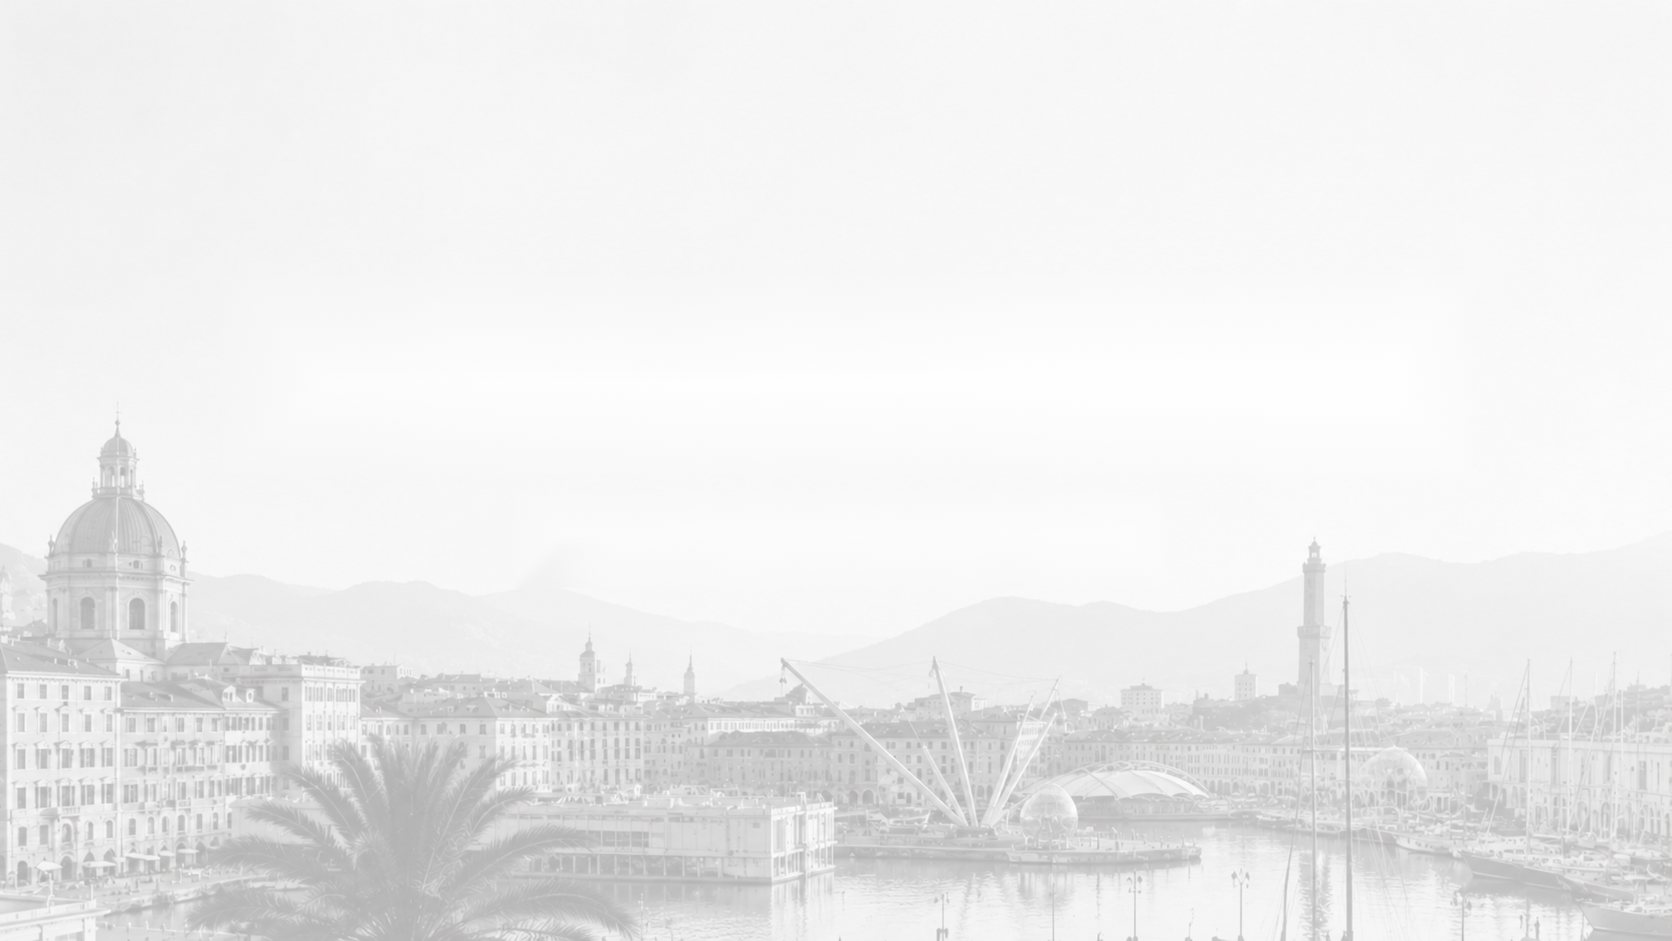
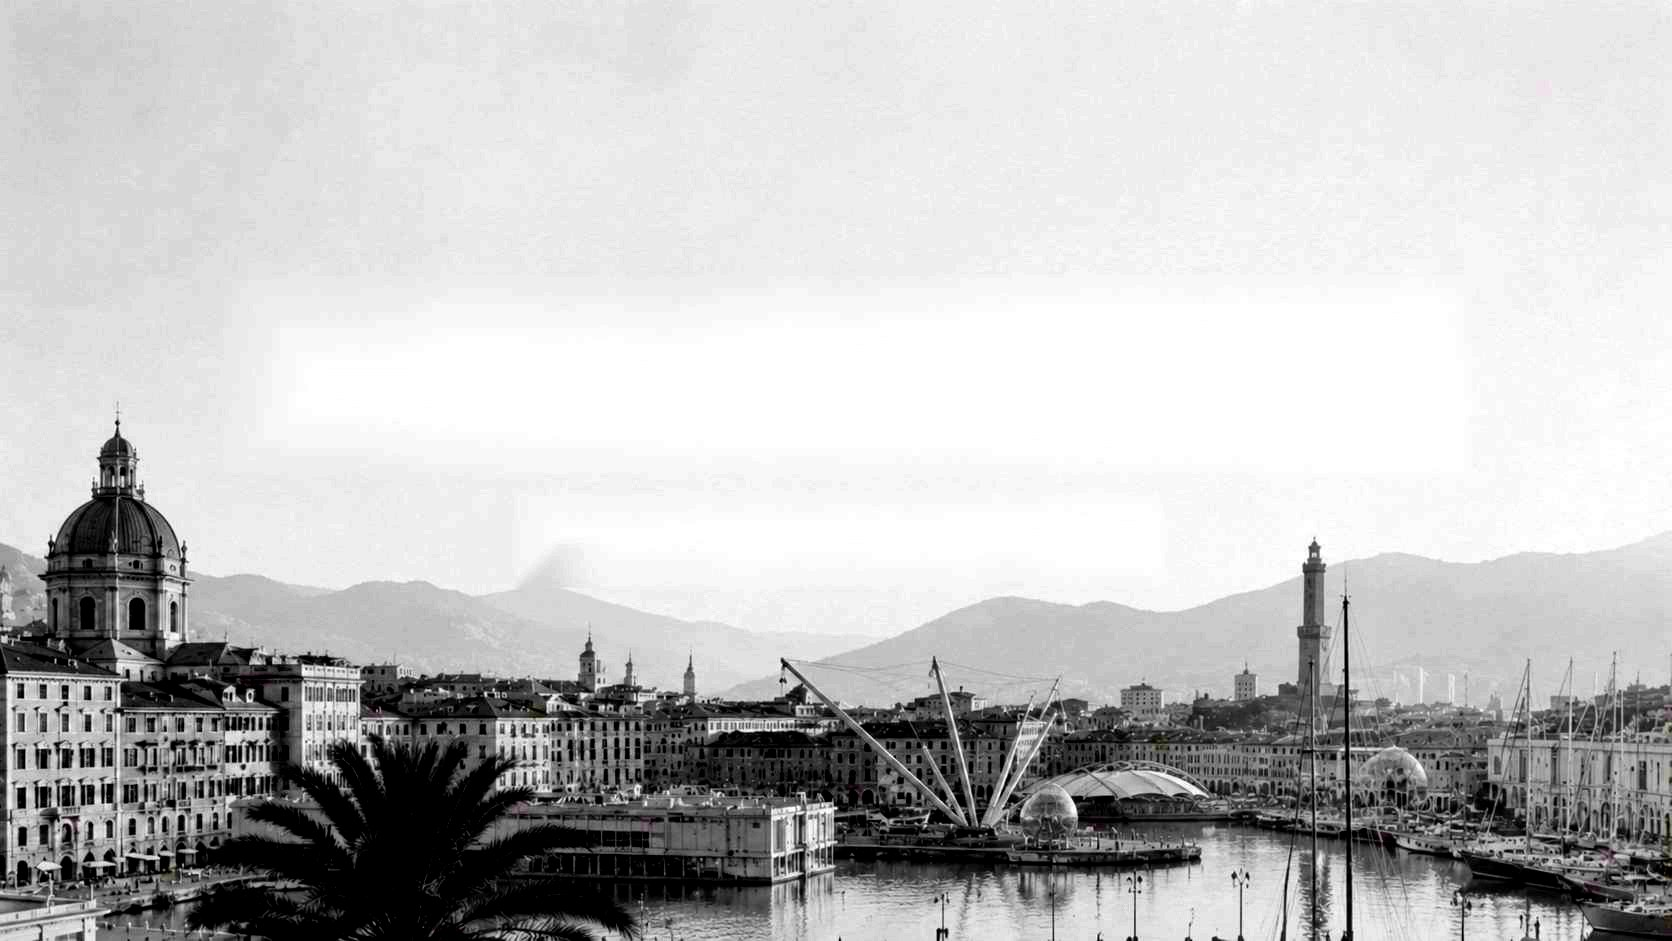
Add files via upload

diff --git a/index.html b/index.html
@@ -11,7 +11,7 @@
 <style>
   :root{
     --navy:#13213c; --navy-2:#1e3157; --ivory:#f7f3ec; --ivory-2:#efe8dc; --white:#fffdf9;
-    --gold:#b38b45; --gold-2:#d2b073; --ink:#1b2333; --muted:#666d7a; --line:#e2d8c6;
+    --gold:#b38b45; --gold-2:#d2b073; --gold-text:#8a6422; --ink:#1b2333; --muted:#666d7a; --line:#e2d8c6;
     --teal:#138f7a;
     --caps:"Cinzel", "Trajan Pro", Georgia, serif;
     --serif:"Cormorant Garamond", Garamond, Georgia, serif;
@@ -36,18 +36,18 @@
   .rule::before,.rule::after{content:"";height:1px;flex:1;background:linear-gradient(90deg,transparent,var(--gold) 30%,var(--gold) 70%,transparent)}
   .rule i{width:9px;height:9px;background:var(--gold);transform:rotate(45deg);flex:none}
   .rule.short{max-width:220px;margin:14px auto}
-  .kicker{font-family:var(--caps);letter-spacing:.22em;font-size:.82rem;color:var(--gold);text-transform:uppercase}
+  .kicker{font-family:var(--caps);letter-spacing:.2em;font-size:.92rem;font-weight:500;color:var(--gold-text);text-transform:uppercase}
 
   /* Header */
   header{position:sticky;top:0;z-index:30;background:rgba(247,243,236,.94);backdrop-filter:blur(8px);border-bottom:1px solid var(--line)}
   .nav{display:flex;align-items:center;justify-content:space-between;height:76px;gap:20px}
   .brand{text-decoration:none;display:flex;flex-direction:column;line-height:1}
   .brand b{font-family:var(--serif);font-weight:500;font-size:1.75rem;color:var(--navy);letter-spacing:.02em}
-  .brand small{font-family:var(--caps);font-size:.62rem;letter-spacing:.38em;color:var(--gold);margin-top:4px}
+  .brand small{font-family:var(--caps);font-size:.72rem;font-weight:500;letter-spacing:.34em;color:var(--gold-text);margin-top:4px}
   nav ul{list-style:none;display:flex;gap:4px;margin:0;padding:0}
   nav a{display:block;padding:10px 16px;text-decoration:none;font-family:var(--caps);font-size:.8rem;letter-spacing:.12em;color:var(--navy);border-bottom:1.5px solid transparent}
   nav a:hover{color:var(--gold)}
-  nav a[aria-current="page"]{border-bottom-color:var(--gold);color:var(--gold)}
+  nav a[aria-current="page"]{border-bottom-color:var(--gold);color:var(--gold-text)}
   .menu-btn{display:none;margin-left:auto;background:none;border:1px solid var(--line);padding:9px 14px;font:600 .75rem var(--caps);letter-spacing:.12em;color:var(--navy);cursor:pointer}
   @media (max-width:860px){
     .menu-btn{display:block}
@@ -62,12 +62,13 @@
 
   /* Hero */
   .hero{position:relative;min-height:calc(100vh - 76px);min-height:calc(100svh - 76px);padding:clamp(56px,11vh,130px) 0 60px;text-align:center;overflow:hidden;
-    background:linear-gradient(180deg,rgba(255,253,249,.55) 0%,rgba(255,253,249,.15) 45%,rgba(247,243,236,0) 70%,rgba(247,243,236,.35) 100%),url(img/genova-full.jpg) center bottom/cover no-repeat var(--ivory)}
+    background:radial-gradient(ellipse 58% 62% at 50% 36%,rgba(250,247,241,.86) 0%,rgba(250,247,241,.62) 55%,rgba(250,247,241,0) 100%),linear-gradient(180deg,rgba(247,243,236,.35) 0%,rgba(247,243,236,0) 40%),url(img/genova-full.jpg) center bottom/cover no-repeat var(--ivory)}
   @media (max-width:700px){.hero{background-size:auto 100%;background-position:30% bottom}}
   .hero h1{font-size:clamp(3rem,9vw,6.2rem);letter-spacing:.12em;line-height:1;margin:0}
-  .hero .payoff{font-family:var(--caps);letter-spacing:.16em;font-size:clamp(.82rem,1.6vw,1.05rem);color:var(--ink);margin:0}
-  .hero .city{font-family:var(--caps);letter-spacing:.5em;color:var(--gold);font-size:.85rem;margin-top:16px}
-  .hero .btns{margin-top:38px}
+  .hero .payoff{font-family:var(--caps);letter-spacing:.16em;font-size:clamp(.9rem,1.7vw,1.1rem);font-weight:500;color:var(--navy);margin:0}
+  .hero .city{font-family:var(--caps);letter-spacing:.5em;color:var(--gold-text);font-weight:500;font-size:.95rem;margin-top:16px}
+  .hero .intro{max-width:560px;margin:26px auto 0;font-family:var(--serif);font-size:clamp(1.25rem,2.2vw,1.55rem);line-height:1.4;font-style:italic;color:var(--ink)}
+  .hero .btns{margin-top:32px}
   .skyline{height:clamp(150px,22vw,300px);margin-top:40px;background:url(img/genova.jpg) center bottom/cover no-repeat;-webkit-mask-image:linear-gradient(180deg,transparent,#000 45%);mask-image:linear-gradient(180deg,transparent,#000 45%);opacity:.9}
 
   .btns{display:flex;gap:14px;flex-wrap:wrap;justify-content:center}
@@ -86,7 +87,7 @@
   .ico{width:66px;height:66px;border-radius:50%;display:grid;place-items:center;border:1.5px solid var(--gold);color:var(--gold);background:var(--white)}
   .ico svg{width:30px;height:30px}
   .socio .tit{font-family:var(--sans);font-weight:600;text-transform:uppercase;letter-spacing:.04em;color:var(--navy);font-size:1.15rem;line-height:1.25}
-  .socio .roles{color:var(--gold);text-transform:uppercase;letter-spacing:.05em;font-size:.9rem;font-weight:500;margin-top:8px;line-height:1.5}
+  .socio .roles{color:var(--gold-text);text-transform:uppercase;letter-spacing:.05em;font-size:.95rem;font-weight:600;margin-top:8px;line-height:1.5}
   .socio .albo{margin-top:16px;font-size:.84rem;color:var(--muted);line-height:1.55}
 
   /* Servizi */
@@ -108,7 +109,7 @@
   .val{display:flex;gap:14px;align-items:center;padding:30px 22px;border-left:1px solid rgba(210,176,115,.45)}
   .val:first-child{border-left:0}
   .val svg{flex:none;width:40px;height:40px;color:var(--gold-2)}
-  .val span{text-transform:uppercase;font-size:.84rem;letter-spacing:.05em;line-height:1.45}
+  .val span{text-transform:uppercase;font-size:.86rem;letter-spacing:.05em;line-height:1.45}
   @media (max-width:900px){.values .wrap{grid-template-columns:1fr 1fr}.val{border-left:0;border-top:1px solid rgba(210,176,115,.3)}}
   @media (max-width:520px){.values .wrap{grid-template-columns:1fr}}
 
@@ -116,8 +117,8 @@
   .legal{display:grid;grid-template-columns:repeat(3,1fr);margin-top:36px}
   .legal div{text-align:center;padding:16px;border-left:1px solid var(--gold-2)}
   .legal div:first-child{border-left:0}
-  .legal svg{display:block;width:30px;height:30px;color:var(--gold);margin:0 auto 10px}
-  .legal b{font-family:var(--caps);font-weight:500;letter-spacing:.06em;color:var(--navy)}
+  .legal svg{display:block;width:40px;height:40px;color:var(--gold-text);margin:0 auto 12px}
+  .legal b{font-family:var(--caps);font-weight:500;font-size:1.25rem;letter-spacing:.06em;color:var(--navy)}
   @media (max-width:720px){.legal{grid-template-columns:1fr}.legal div{border-left:0;border-top:1px solid var(--line)}}
   .duo{display:grid;grid-template-columns:1fr 1fr;gap:28px}
   @media (max-width:860px){.duo{grid-template-columns:1fr}}
@@ -125,6 +126,10 @@
   .panel::after{content:"";position:absolute;left:0;right:0;bottom:0;height:4px;background:linear-gradient(90deg,var(--navy),var(--gold),var(--navy))}
   .panel .big{font-family:var(--caps);letter-spacing:.1em;font-size:1.25rem;color:var(--navy)}
   .secal-logo{max-width:230px;margin:0 auto 6px;mix-blend-mode:multiply}
+  .collab{text-align:center;margin:0 auto 44px}
+  .collab .big{font-family:var(--caps);letter-spacing:.1em;font-size:1.35rem;color:var(--navy)}
+  .panel.secal{max-width:900px;margin:0 auto}
+  @media (min-width:761px){.panel.secal{display:grid;grid-template-columns:240px 1fr;gap:40px;align-items:center;text-align:left;padding:40px 44px}.panel.secal .secal-logo{margin:0}}
   .panel.secal::after{background:linear-gradient(90deg,var(--teal),#7cc3b6,var(--teal))}
 
   /* Storia */
@@ -141,13 +146,16 @@
   /* Page head */
   .page-head{position:relative;padding:clamp(90px,14vh,150px) 0 clamp(70px,11vh,120px);text-align:center;border-bottom:1px solid var(--line);
     background:var(--bg,none) var(--pos,center)/cover no-repeat var(--ivory)}
-  .page-head::before{content:"";position:absolute;inset:0;background:radial-gradient(ellipse 60% 75% at 50% 50%,rgba(250,247,241,.94) 0%,rgba(250,247,241,.84) 55%,rgba(250,247,241,.45) 100%)}
+  .page-head::before{content:"";position:absolute;inset:0;background:radial-gradient(ellipse 60% 75% at 50% 50%,rgba(250,247,241,.92) 0%,rgba(250,247,241,.78) 55%,rgba(250,247,241,.28) 100%)}
   .page-head .wrap{position:relative}
+  .photo-note{margin:40px 0 0;text-align:center;font-size:.74rem;color:var(--muted);opacity:.85}
+  .photo-note a{color:inherit}
+  @media (max-width:700px){#v-contatti .page-head{background-position:88% 60% !important}}
   .legal-band{position:relative;background:url(img/legale.jpg) center/cover no-repeat var(--ivory)}
-  .legal-band::before{content:"";position:absolute;inset:0;background:radial-gradient(ellipse 55% 80% at 50% 50%,rgba(247,243,236,.95) 0%,rgba(247,243,236,.9) 60%,rgba(247,243,236,.7) 100%)}
+  .legal-band::before{content:"";position:absolute;inset:0;background:radial-gradient(ellipse 55% 80% at 50% 50%,rgba(247,243,236,.93) 0%,rgba(247,243,236,.82) 60%,rgba(247,243,236,.5) 100%)}
   .legal-band .wrap{position:relative}
   .page-head h1{font-size:clamp(2rem,5vw,3.4rem);margin:10px 0 0}
-  .page-head p.lead{max-width:640px;margin:0 auto;color:var(--muted);font-family:var(--serif);font-size:1.3rem;font-style:italic}
+  .page-head p.lead{max-width:640px;margin:0 auto;color:#4f5666;font-family:var(--serif);font-size:1.3rem;font-style:italic}
 
   /* Circolari */
   .toolbar{display:flex;gap:12px;flex-wrap:wrap;margin:0 0 26px}
@@ -159,9 +167,10 @@
   .circ summary::-webkit-details-marker{display:none}
   .circ .date{font-size:.85rem;color:var(--muted)}
   .circ .date b{display:block;font-family:var(--serif);font-weight:600;font-size:1.3rem;color:var(--navy);line-height:1.1}
-  .circ .cat{font-size:.72rem;letter-spacing:.12em;text-transform:uppercase;color:var(--gold);font-weight:600}
+  .circ .cat{font-size:.78rem;letter-spacing:.12em;text-transform:uppercase;color:var(--gold-text);font-weight:600}
   .circ .t{font-family:var(--serif);font-size:1.35rem;font-weight:600;color:var(--navy);line-height:1.25;margin-top:2px}
-  .circ .chev{color:var(--gold);transition:transform .2s}
+  .circ .chev{flex:none;width:34px;height:34px;border:1px solid var(--gold);border-radius:50%;display:grid;place-items:center;color:var(--gold-text);background:var(--white);transition:transform .2s,background .2s}
+  .circ summary:hover .chev{background:var(--ivory)}
   .circ[open] .chev{transform:rotate(180deg)}
   .circ .body{padding:0 26px 24px 198px;color:var(--ink)}
   .circ .body p{white-space:pre-line}
@@ -182,9 +191,12 @@
   .map::before{content:"";position:absolute;inset:0;background:rgba(255,253,249,.78)}
   .map > div{position:relative}
   .map p{max-width:330px;font-size:.92rem;color:var(--muted);margin:0 auto 16px}
+  .map .pin{width:46px;height:46px;color:var(--gold-text);margin:0 auto 8px}
+  .map .addr{font-family:var(--serif);font-size:1.7rem;line-height:1.2;color:var(--navy);margin-bottom:16px}
   .map iframe{position:absolute;inset:0;width:100%;height:100%;border:0;z-index:2}
 
-  .uffici{display:grid;grid-template-columns:repeat(auto-fit,minmax(300px,1fr));gap:16px;margin-top:36px}
+  .uffici{display:flex;flex-wrap:wrap;justify-content:center;gap:16px;margin-top:36px}
+  .uffici .ufficio{flex:1 1 300px;max-width:370px}
   .ufficio{display:flex;gap:16px;align-items:center;padding:20px 22px;background:var(--ivory);border:1px solid var(--line);border-left:3px solid var(--gold);text-decoration:none;transition:all .2s}
   .ufficio:hover{background:#fff;border-left-color:var(--navy);transform:translateY(-1px)}
   .u-ico{flex:none;width:46px;height:46px;border-radius:50%;background:var(--navy);color:var(--gold-2);display:grid;place-items:center}
@@ -202,7 +214,7 @@
   .nitem .src{flex:none;width:52px;height:52px;border-radius:50%;display:grid;place-items:center;font:600 .72rem var(--sans);letter-spacing:.04em;color:#fff;background:var(--navy)}
   .nitem .src.inl{background:#2f5d50}
   .nitem .src.ade{background:#8a6a2f}
-  .nitem .meta{font-size:.74rem;letter-spacing:.1em;text-transform:uppercase;color:var(--gold);font-weight:600}
+  .nitem .meta{font-size:.8rem;letter-spacing:.1em;text-transform:uppercase;color:var(--gold-text);font-weight:600}
   .nitem .nt{font-family:var(--serif);font-size:1.22rem;font-weight:600;color:var(--navy);line-height:1.3;margin-top:3px;display:-webkit-box!important;-webkit-line-clamp:3;-webkit-box-orient:vertical;overflow:hidden}
   .nitem .go{margin-left:auto;color:var(--gold);flex:none;font-size:1.1rem}
   .nitem .meta{line-height:1.5;display:block}
@@ -248,6 +260,7 @@
       <div class="rule"><i></i></div>
       <p class="payoff">CONSULENZA SOCIETARIA, TRIBUTARIA E DEL LAVORO</p>
       <div class="city">GENOVA</div>
+      <p class="intro">Da tre generazioni al fianco di imprese, professionisti e famiglie.</p>
       <div class="btns">
         <a class="btn primary" href="#contatti">Contattaci</a>
         <a class="btn" href="#servizi">I nostri servizi</a>
@@ -335,16 +348,19 @@
   </section>
 
   <section class="band">
-    <div class="wrap duo">
-      <div class="panel">
+    <div class="wrap">
+      <div class="collab">
         <div class="kicker">Con noi collabora</div>
         <div class="rule short"><i></i></div>
         <div id="collaboratori"></div>
       </div>
       <div class="panel secal">
         <img class="secal-logo" src="img/secal.jpg" alt="SECAL S.r.l. — Centro Servizi Elaborazione Dati">
-        <p class="muted" style="margin:14px 0 0">Il centro servizi dello Studio dal 1981: tenuta della contabilità, libri paga e servizi telematici per gli adempimenti fiscali, amministrativi e in materia di lavoro.</p>
-        <p style="font-size:.85rem;color:var(--muted);margin:10px 0 0" id="secal-info"></p>
+        <div>
+          <div class="kicker" style="color:var(--teal)">La società di servizi</div>
+          <p class="muted" style="margin:10px 0 0">Il centro servizi dello Studio dal 1981: tenuta della contabilità, libri paga e servizi telematici per gli adempimenti fiscali, amministrativi e in materia di lavoro.</p>
+          <p style="font-size:.85rem;color:var(--muted);margin:10px 0 0" id="secal-info"></p>
+        </div>
       </div>
     </div>
   </section>
@@ -360,20 +376,14 @@
   </div></div>
   <section>
     <div class="wrap center">
-      <h2>Consulenza societaria, fiscale e tributaria</h2>
+      <h2>Consulenza societaria, fiscale, tributaria e legale</h2>
       <div class="rule"><i></i></div>
-      <p class="kicker" style="color:var(--navy);letter-spacing:.14em">Assistenza e consulenza legale</p>
     </div>
     <div class="wrap">
       <div class="services" id="services"></div>
-      <div class="core" aria-hidden="true">
-        <svg viewBox="0 0 48 48" fill="none" stroke="currentColor" stroke-width="1.6"><path d="M8 12h32M10 8h28l2 4H8zM12 16h24M14 16v22M20 16v22M28 16v22M34 16v22M10 40h28M8 44h32"/></svg>
-        <div>Competenza<br>Affidabilità<br>Soluzioni su misura<br>per la tua azienda</div>
-      </div>
     </div>
   </section>
 
-  <div class="values"><div class="wrap" data-values></div></div>
   <section class="band">
     <div class="wrap center">
       <h2>Parliamo della tua azienda</h2>
@@ -400,14 +410,13 @@
         <select id="anno" aria-label="Filtra per anno"><option value="">Tutti gli anni</option></select>
       </div>
       <div class="circ-list" id="circolari-list"></div>
-      <p class="staff-note">Area riservata allo staff: <a href="admin/">pubblica una circolare</a>.</p>
     </div>
   </section>
 </div>
 
 <!-- ================= CONTATTI ================= -->
 <div class="view" id="v-contatti">
-  <div class="page-head" style="--bg:url(img/porto.jpg);--pos:center 70%"><div class="wrap">
+  <div class="page-head" style="--bg:url(img/piazza-vittoria.jpg);--pos:center 60%"><div class="wrap">
     <div class="kicker">Contatti</div>
     <h1>Dove siamo</h1>
     <div class="rule"><i></i></div>
@@ -426,6 +435,8 @@
       </div>
       <div style="display:flex;flex-direction:column;gap:16px">
         <div class="map" id="map"><div>
+          <svg class="pin" viewBox="0 0 32 32" fill="none" stroke="currentColor" stroke-width="1.6"><path d="M16 29s9-8.2 9-15a9 9 0 10-18 0c0 6.8 9 15 9 15z"/><circle cx="16" cy="14" r="3.4"/></svg>
+          <div class="addr"><span data-k="indirizzo"></span><br><span data-k="cap"></span></div>
           <p>Per visualizzare la mappa di Google è necessario accettare i cookie di terze parti.</p>
           <button class="btn" data-consent="all">Accetta e mostra la mappa</button>
         </div></div>
@@ -438,6 +449,7 @@
       <div class="center"><div class="kicker">Scrivici</div><h2 style="margin-top:12px">I nostri uffici</h2><div class="rule short"><i></i></div>
       <p class="muted">Per una risposta più rapida, scrivete direttamente all'ufficio di riferimento.</p></div>
       <div class="uffici" id="uffici"></div>
+      <p class="photo-note">Foto della testata: <a href="https://commons.wikimedia.org/wiki/File:Piazza_della_Vittoria_@emanuelepisano.jpg" target="_blank" rel="noopener">Piazza della Vittoria</a> di Pisanoemanuele, Wikimedia Commons, licenza <a href="https://creativecommons.org/licenses/by-sa/4.0/deed.it" target="_blank" rel="noopener">CC BY-SA 4.0</a>. Immagine ritagliata e ritoccata nei colori, distribuita con la stessa licenza.</p>
     </div>
   </section>
 </div>
@@ -452,7 +464,7 @@
     </div>
     <div class="legalbar">
       <span>© <span id="y"></span> Studio Picco · P.IVA <span data-k="piva"></span></span>
-      <span><a href="#contatti">Privacy policy</a> · <a href="#contatti">Cookie policy</a> · <a href="#" id="cookie-prefs">Preferenze cookie</a></span>
+      <span><a href="#contatti">Privacy policy</a> · <a href="#contatti">Cookie policy</a> · <a href="#" id="cookie-prefs">Preferenze cookie</a> · <a href="admin/">Area staff</a></span>
     </div>
   </div>
 </footer>
@@ -523,18 +535,19 @@
   // --- Servizi ---
   const servizi = [
     [I.dich, "Dichiarazioni fiscali", "Consulenza · elaborazione · trasmissione"],
-    [I.lavoroPrev, "Consulenza in materia di lavoro e previdenziale", "Gestione del personale, paghe e contributi"],
+    [I.lavoro, "Consulenza in materia di lavoro e previdenziale", "Gestione del personale, paghe e contributi"],
     [I.ristr, "Assistenza nelle operazioni di ristrutturazione societaria", "Trasformazioni, fusioni, scissioni, conferimenti"],
     [I.succ, "Consulenza per pratiche successorie", "Dichiarazioni di successione e passaggi generazionali"],
     [I.contratti, "Consulenza contrattualistica", "Redazione e verifica di contratti"],
     [I.perizie, "Valutazione e perizie di aziende e rami d'azienda", "Stime e relazioni di valutazione"],
-    [I.bilanci, "Bilanci e revisioni contabili", "Effettuazione di due diligence e business plan"]
+    [I.bilanci, "Bilanci e revisioni contabili", "Effettuazione di due diligence e business plan"],
+    [I.avvocato, "Assistenza e consulenza legale", "Consulenza legale per imprese e famiglie"]
   ];
   $("#services").innerHTML = servizi.map(([ic,t,s]) => `
     <div class="svc"><span class="dot">${ic}</span><div><h3>${esc(t)}</h3><p>${esc(s)}</p></div></div>`).join("");
 
   // --- Valori ---
-  const valori = [[I.target,"Approccio personalizzato"],[I.shield,"Riservatezza e professionalità"],[I.idea,"Soluzioni innovative e strategiche"],[I.hands,"Partner affidabile per la crescita della tua impresa"]];
+  const valori = [[I.lavoro,"Consulenza del lavoro, fiscale, societaria e legale"],[I.hands,"Oltre sessant'anni di storia, tre generazioni di professionisti"],[I.bilanci,"Accanto alle imprese, dalla costituzione ai bilanci"],[I.shield,"Riservatezza e professionalità"]];
   $$("[data-values]").forEach(el => el.innerHTML = valori.map(([ic,t]) => `<div class="val">${ic}<span>${esc(t)}</span></div>`).join(""));
 
   // --- Area legale, collaboratori, Secal ---
@@ -584,7 +597,7 @@
     return x.toLocaleDateString("it-IT",{day:"numeric",month:"long"}); };
   let NEWS = [], filtro = "";
   function renderNews(){
-    const list = NEWS.filter(n => !filtro || n.fonte === filtro).slice(0, 8);
+    const list = NEWS.filter(n => !filtro || n.fonte === filtro).slice(0, 12);
     $("#news").innerHTML = list.map(n => { const [s,c] = sigla(n.fonte); return `
       <a class="nitem" href="${esc(n.link)}" target="_blank" rel="noopener" title="${esc(n.titolo)}">
         <span class="src ${c}" aria-hidden="true">${esc(s)}</span>
@@ -616,7 +629,7 @@
       <summary>
         <div class="date"><b>${esc(d.g)}</b>${esc(d.a)}${c.numero ? " · n. " + esc(c.numero) : ""}</div>
         <div><div class="cat">${esc(c.categoria||"")}</div><div class="t">${esc(c.titolo)}</div></div>
-        <span class="chev" aria-hidden="true">▾</span>
+        <span class="chev" aria-hidden="true"><svg viewBox="0 0 20 20" width="16" height="16" fill="none" stroke="currentColor" stroke-width="2" stroke-linecap="round" stroke-linejoin="round"><path d="M5 8l5 5 5-5"/></svg></span>
       </summary>
       <div class="body"><p>${linkify(esc(c.sintesi))}</p>${c.allegato ? `<a class="btn gold" href="${esc(c.allegato)}" target="_blank" rel="noopener">Scarica l'allegato ↓</a>` : ""}</div>
     </details>`; };
